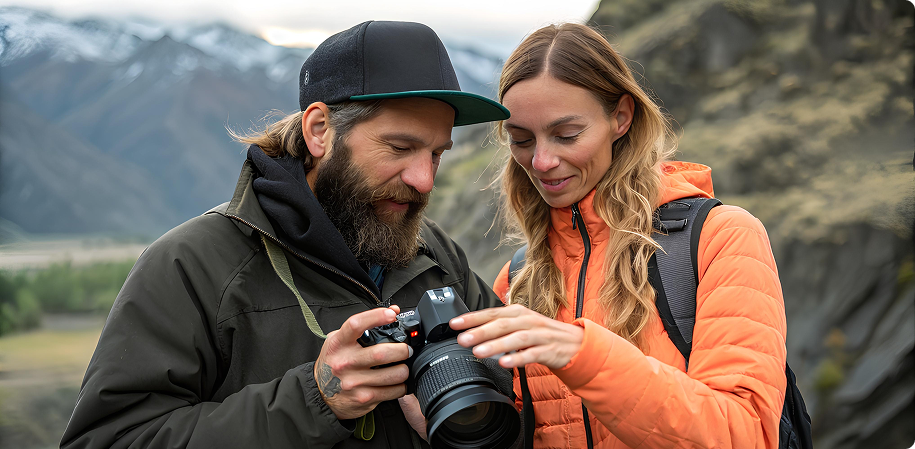
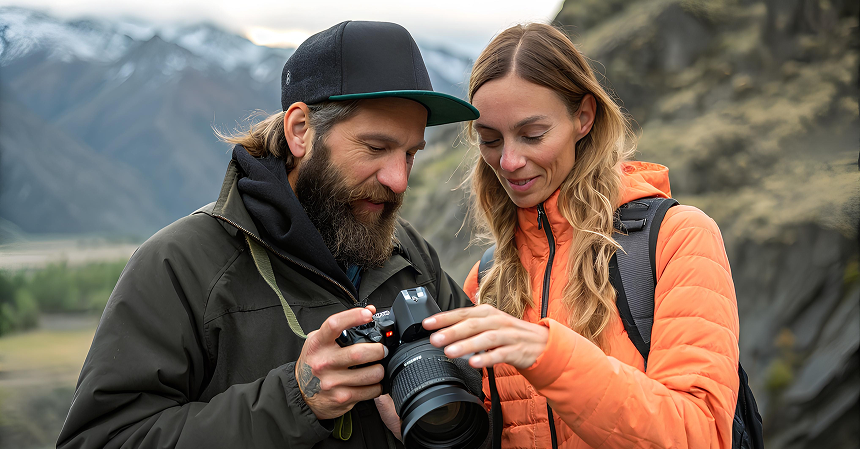
Design fixes

Changed region(s): [[0.9674, 0.9666, 1.0, 1.0], [0.9977, 0.0, 1.0, 0.0312], [0.6047, 0.4677, 0.6349, 0.4989]]

diff --git a/src/sections/Moments/Moments.module.scss b/src/sections/Moments/Moments.module.scss
@@ -37,6 +37,8 @@
 
   &__image {
     width: 50%;
+    border-top-right-radius: 10px;
+    border-bottom-right-radius: 10px;
   }
 
   @media screen and (max-width: 1600px) {
@@ -65,6 +67,7 @@
 
     & img {
       width: 100%;
+      border-radius: 0;
     }
   }
 

diff --git a/src/components/Header/Header.module.scss b/src/components/Header/Header.module.scss
@@ -46,7 +46,11 @@
     font-family: "Inter";
     line-height: 180%;
 
-    @include underline;
+    text-decoration: none;
+
+    &:hover {
+      text-decoration: underline;
+    }
   }
 
   @media screen and (max-width: 1200px) {

diff --git a/src/components/BurgerMenu/BurgerMenu.module.scss b/src/components/BurgerMenu/BurgerMenu.module.scss
@@ -18,6 +18,7 @@
 
   &__button,
   &__close {
+    cursor: pointer;
     background: none;
     border: none;
     width: fit-content;

diff --git a/src/index.scss b/src/index.scss
@@ -72,6 +72,7 @@
 html {
   background-color: #fef9ed;
   scroll-behavior: smooth;
+  scroll-padding: 20px;
 
   overflow-x: hidden;
 }

diff --git a/src/components/Input/Input.module.scss b/src/components/Input/Input.module.scss
@@ -29,6 +29,7 @@
       padding: 5px 0;
 
       font-family: "Inter";
+      outline: none;
     }
   }
 }
